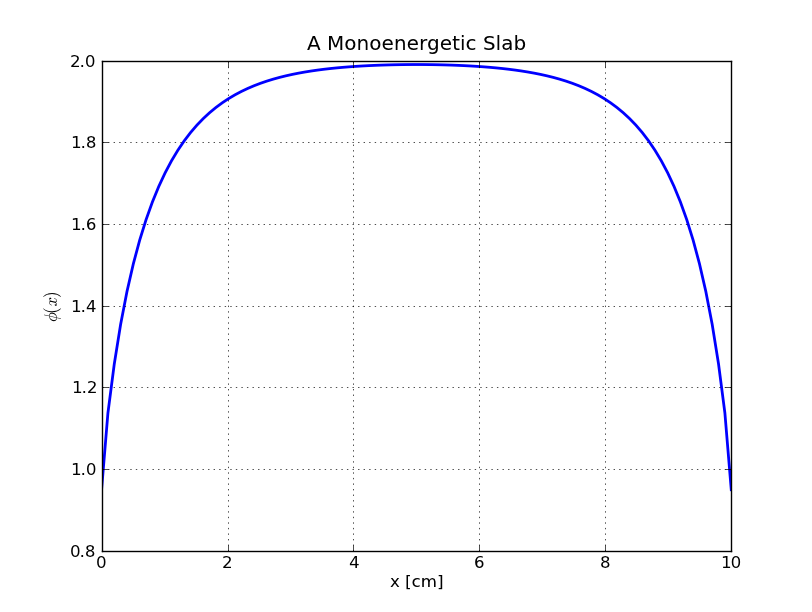
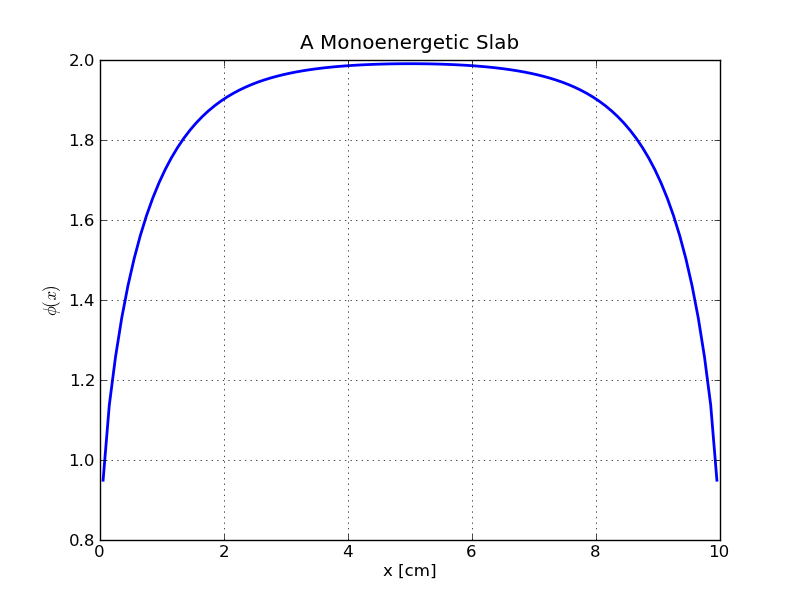
Modified tutorial so flux plot has correct x axis

diff --git a/pyexamples/tutorial/tutorial.py b/pyexamples/tutorial/tutorial.py
@@ -90,10 +90,12 @@ solver.solve()
 # For fun, we can plot the flux. 
 import matplotlib.pyplot as plt
 phi = state.phi(0)
-x   = np.linspace(0.0, 10.0, 100)
+x   = np.linspace(0.0, 10.0, 101)
+x   = 0.5*x[1] + x[0:100]
 plt.plot(x, phi, linewidth = 2)
 plt.grid(True)
 plt.xlabel('x [cm]')
 plt.ylabel('$\phi(x)$')
 plt.title('A Monoenergetic Slab')
 plt.savefig('tutorial.png')
+plt.show()
